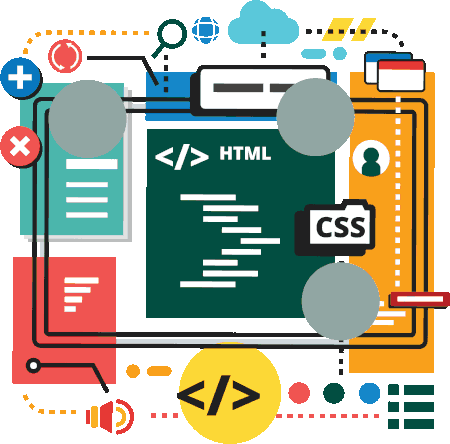
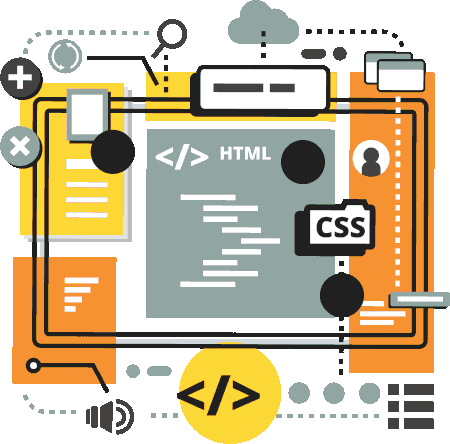
Dia 11
Pequenos ajustes na imagem da página da Anatomia de um Site.

diff --git a/anatomia.html b/anatomia.html
@@ -44,14 +44,14 @@
                     <h1>Anatomia de um Site</h1>
                 </hgroup>
 
-                <p id="pagina-css3">Clique nos círculos cinzas da imagem para saber como é a anatomia de um website.</p>
+                <p id="pagina-css3">Clique nos discos pretos da imagem para saber como é a anatomia de um website.</p>
 
                 <section id="conteudo">        
                     <img id="mapa-anatomico" src="_imagens/site-anatomy.png" width="450" usemap="#mapa-img">
                     <map name="mapa-img">
-                        <area shape="circle" coords="315,120,40" href="descricao.html#html-part" target="janela">
-                        <area shape="circle" coords="339,305,40" href="descricao.html#css-part" target="janela">
-                        <area shape="circle" coords="88,120,40" href="descricao.html#javascript-part" target="janela">
+                        <area shape="circle" coords="302,161,23" href="descricao.html#html-part" target="janela">
+                        <area shape="circle" coords="342,295,23" href="descricao.html#css-part" target="janela">
+                        <area shape="circle" coords="113,152,23" href="descricao.html#javascript-part" target="janela">
                     </map>
                     <iframe src="descricao.html" name="janela" id="info"></iframe>
                 </section>

diff --git a/descricao.html b/descricao.html
@@ -41,7 +41,7 @@
 <body>
     <article id="topo"> 
         <header>
-            <h3>Clique sobre as áreas em cinza</h3>
+            <h3>Clique sobre os discos pretos</h3>
         </header>
         <figure>
             <img src="_imagens/seta.png" width="70px">
